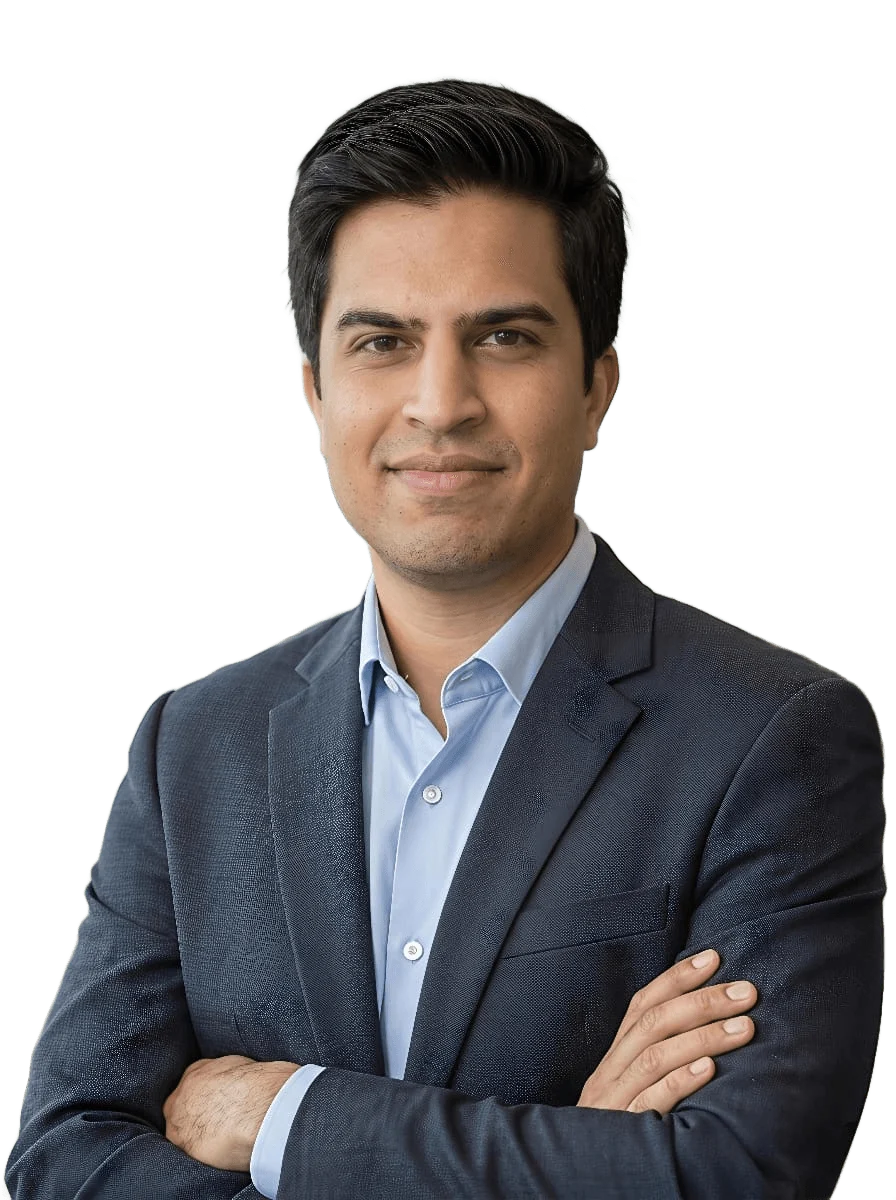
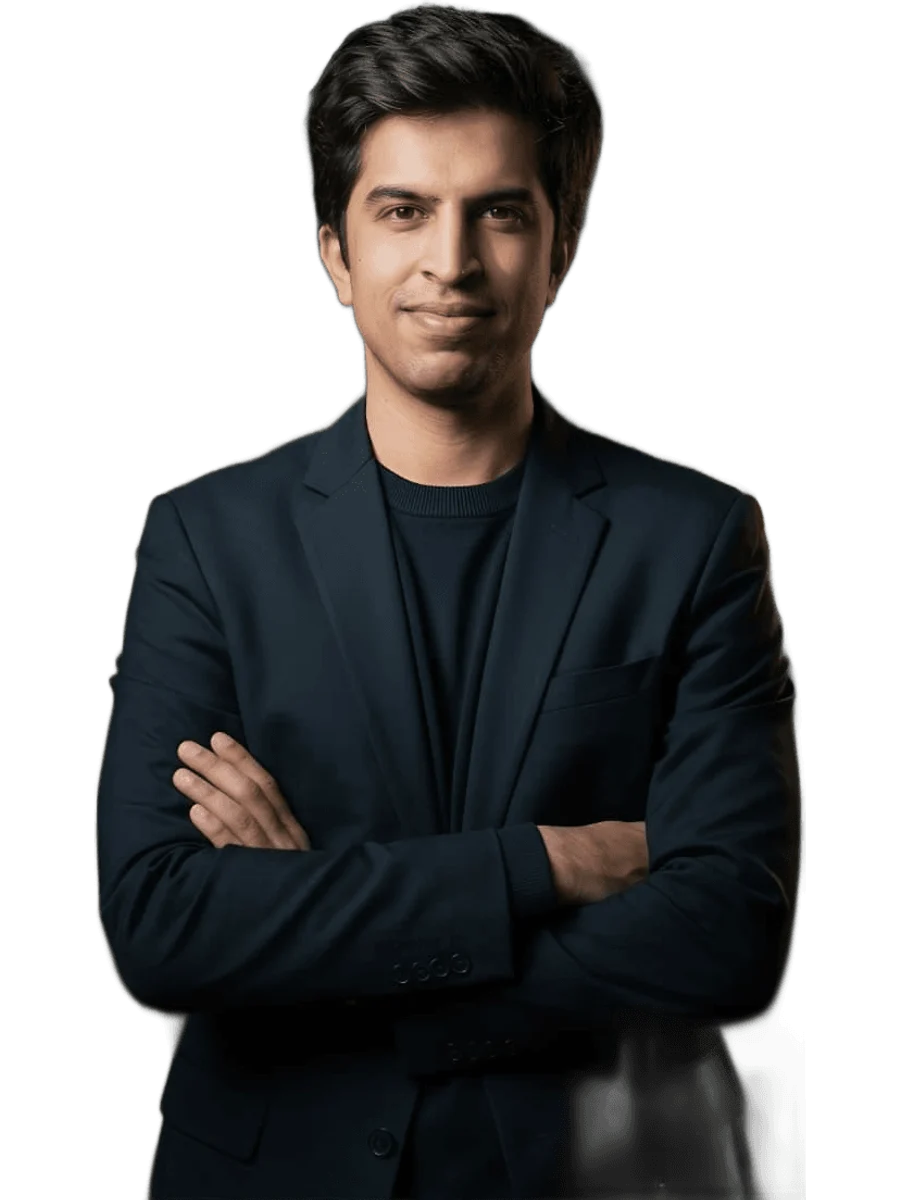
Use the new portrait and switch headings to Syne
Replace the hero cut-out and fallback portrait with the new photo.
Set the name and headings in Syne with Inter for body text, animate
the hero name letter by letter, and resize the hero, stats, project
figures and contact heading to fit the wider typeface.

diff --git a/src/index.css b/src/index.css
@@ -16,7 +16,7 @@
   --color-terracotta-ink: #94523c; /* AA-compliant terracotta for small text on ivory */
   --color-muted: #55574f;
 
-  --font-serif: 'Cormorant Garamond', 'Times New Roman', Georgia, serif;
+  --font-display: 'Syne', 'Inter', ui-sans-serif, system-ui, sans-serif;
   --font-sans: 'Inter', ui-sans-serif, system-ui, -apple-system, 'Segoe UI', sans-serif;
 
   --ease-editorial: cubic-bezier(0.22, 1, 0.36, 1);
@@ -37,7 +37,8 @@
     color: var(--color-charcoal);
     font-family: var(--font-sans);
     font-size: 1rem;
-    line-height: 1.65;
+    font-weight: 400;
+    line-height: 1.7;
     -webkit-font-smoothing: antialiased;
     -moz-osx-font-smoothing: grayscale;
     text-rendering: optimizeLegibility;
@@ -70,11 +71,15 @@
     line-height: 1.4;
   }
   .display {
-    font-family: var(--font-serif);
-    font-weight: 500;
-    letter-spacing: -0.02em;
-    line-height: 0.95;
-    font-variant-numeric: lining-nums;
+    font-family: var(--font-display);
+    font-weight: 600;
+    letter-spacing: -0.035em;
+    line-height: 1;
+  }
+  /* Syne has no italic: accents are carried by colour instead */
+  .display em,
+  .display i {
+    font-style: normal;
   }
   .rule {
     height: 1px;
@@ -116,22 +121,21 @@
   --u: min(1vw, 15.2px);
 }
 .hero-name {
-  font-family: var(--font-serif);
-  font-weight: 700;
-  font-size: calc(var(--u) * 22);
-  line-height: 0.86;
-  letter-spacing: -0.025em;
-  padding-top: 0.05em;
-  font-variant-numeric: lining-nums;
+  font-family: var(--font-display);
+  font-weight: 800;
+  font-size: calc(var(--u) * 15);
+  line-height: 0.82;
+  letter-spacing: -0.04em;
+  padding-top: 0.06em;
   color: var(--color-ivory);
 }
 .hero-photo {
   width: calc(var(--u) * 72);
   height: calc(var(--u) * 96);
-  margin-top: calc(var(--u) * -9);
+  margin-top: calc(var(--u) * -6.5);
 }
 .hero-front {
-  margin-top: calc(var(--u) * -24);
+  margin-top: calc(var(--u) * -26);
 }
 @media (min-width: 768px) {
   .hero-scale {
@@ -139,15 +143,15 @@
     --u: min(1vw, 1.4vh, 15.2px);
   }
   .hero-name {
-    font-size: calc(var(--u) * 19);
+    font-size: calc(var(--u) * 14.5);
   }
   .hero-photo {
-    width: calc(var(--u) * 39);
-    height: calc(var(--u) * 52);
-    margin-top: calc(var(--u) * -8.5);
+    width: calc(var(--u) * 42);
+    height: calc(var(--u) * 56);
+    margin-top: calc(var(--u) * -6.5);
   }
   .hero-front {
-    margin-top: calc(var(--u) * -19.5);
+    margin-top: calc(var(--u) * -22);
   }
 }
 

diff --git a/src/components/Hero.jsx b/src/components/Hero.jsx
@@ -6,17 +6,35 @@ import Button from './Button.jsx'
 
 const ease = [0.22, 1, 0.36, 1]
 
-// One line of the oversized name, rising out of a mask from below.
+// One line of the oversized name: each letter rises out of a mask from below, staggered,
+// then lifts and warms to terracotta on hover.
 function NameLine({ children, delay }) {
   return (
     <div className="overflow-hidden">
       <motion.div
-        className="hero-name text-center"
-        initial={{ y: '100%' }}
-        animate={{ y: '0%' }}
-        transition={{ duration: 1.3, ease, delay }}
+        className="hero-name flex justify-center"
+        initial="hidden"
+        animate="show"
+        variants={{ show: { transition: { staggerChildren: 0.07, delayChildren: delay } } }}
       >
-        {children}
+        {[...children].map((ch, i) => (
+          <motion.span
+            key={i}
+            className="inline-block"
+            variants={{
+              hidden: { y: '110%', rotate: 8, skewX: -6 },
+              show: { y: '0%', rotate: 0, skewX: 0, transition: { duration: 1.1, ease } },
+            }}
+          >
+            <motion.span
+              className="inline-block"
+              whileHover={{ y: '-8%', color: '#b86f52' }}
+              transition={{ type: 'spring', stiffness: 300, damping: 18 }}
+            >
+              {ch}
+            </motion.span>
+          </motion.span>
+        ))}
       </motion.div>
     </div>
   )
@@ -58,14 +76,14 @@ export default function Hero() {
 
         <motion.div
           className="hero-photo relative z-10 mx-auto"
-          initial={{ opacity: 0, y: 60 }}
-          animate={{ opacity: 1, y: 0 }}
-          transition={{ duration: 1.5, ease, delay: 0.45 }}
+          initial={{ opacity: 0, y: 40, scale: 1.06 }}
+          animate={{ opacity: 1, y: 0, scale: 1 }}
+          transition={{ duration: 1.4, ease, delay: 0.4 }}
         >
           <motion.img
             src={profile.portraitCutout}
             alt=""
-            width="896"
+            width="900"
             height="1200"
             fetchPriority="high"
             decoding="async"

diff --git a/src/components/Snapshot.jsx b/src/components/Snapshot.jsx
@@ -35,7 +35,7 @@ export default function Snapshot() {
                 <span className="label block text-charcoal">{s.label}</span>
                 <span className="mt-3 block max-w-[32ch] text-[0.9375rem] leading-relaxed text-muted">{s.context}</span>
               </dt>
-              <dd className="display order-1 text-[4.5rem] leading-none tracking-[-0.03em] tabular-nums text-charcoal sm:text-[5rem] xl:text-[6rem]">
+              <dd className="display order-1 text-[3.25rem] leading-none tracking-[-0.04em] tabular-nums text-charcoal sm:text-[3.75rem] xl:text-[4.5rem]">
                 <CountUp value={s.value} prefix={s.prefix} suffix={s.suffix} />
               </dd>
             </Reveal>

diff --git a/src/components/Work.jsx b/src/components/Work.jsx
@@ -38,7 +38,7 @@ function Project({ p, i }) {
           {p.title}
         </RevealText>
         <div className="mt-10 lg:mt-14">
-          <p className="display text-[5rem] leading-none tracking-[-0.03em] text-terracotta transition-transform duration-700 ease-[var(--ease-editorial)] group-hover:translate-x-2 md:text-[6.5rem]">
+          <p className="display text-[3.75rem] leading-none tracking-[-0.04em] text-terracotta transition-transform duration-700 ease-[var(--ease-editorial)] group-hover:translate-x-2 md:text-[4.75rem]">
             {p.figure}
           </p>
           <p className="label mt-3 text-ivory/70">{p.figureLabel}</p>

diff --git a/src/components/Approach.jsx b/src/components/Approach.jsx
@@ -26,7 +26,7 @@ export default function Approach() {
               key={p.title}
               className="grid grid-cols-12 gap-x-6 gap-y-4 border-t border-charcoal/25 py-10 md:py-14"
             >
-              <span className="display col-span-12 text-6xl italic leading-none text-terracotta md:col-span-2 md:text-7xl">
+              <span className="display col-span-12 text-6xl leading-none text-terracotta md:col-span-2 md:text-7xl">
                 {numerals[i]}
               </span>
               <RevealText as="h3" stagger={0.035} className="display col-span-12 text-3xl leading-[1.08] md:col-span-6 md:text-[2.6rem]">

diff --git a/src/components/About.jsx b/src/components/About.jsx
@@ -17,7 +17,7 @@ export default function About() {
           </RevealText>
 
           <div className="col-span-12 lg:col-span-6 lg:col-start-7">
-            <RevealText as="p" stagger={0.012} className="display text-[1.65rem] font-normal leading-[1.3] tracking-[-0.01em] text-charcoal md:text-[2rem]">
+            <RevealText as="p" stagger={0.012} className="display text-[1.4rem] font-medium leading-[1.35] tracking-[-0.02em] text-charcoal md:text-[1.75rem]">
               {about.lead}
             </RevealText>
             <div className="mt-8 grid gap-5 text-muted md:grid-cols-2 md:gap-8">

diff --git a/index.html b/index.html
@@ -31,7 +31,7 @@
     <link rel="preconnect" href="https://fonts.googleapis.com" />
     <link rel="preconnect" href="https://fonts.gstatic.com" crossorigin />
     <link
-      href="https://fonts.googleapis.com/css2?family=Cormorant+Garamond:ital,wght@0,400;0,500;0,600;0,700;1,400;1,500&family=Inter:wght@400;500;600&display=swap"
+      href="https://fonts.googleapis.com/css2?family=Syne:wght@500;600;700;800&family=Inter:wght@300;400;500;600&display=swap"
       rel="stylesheet"
     />
     <link rel="preload" as="image" href="./img/faraz-ahmad-cutout.webp" fetchpriority="high" />

diff --git a/src/components/Nav.jsx b/src/components/Nav.jsx
@@ -126,7 +126,7 @@ export default function Nav() {
                     animate={{ y: '0%' }}
                     transition={{ duration: 0.7, delay: 0.15 + i * 0.06, ease }}
                   >
-                    <span className={`display text-5xl ${active === item.id ? 'italic text-terracotta-ink' : ''}`}>
+                    <span className={`display text-5xl ${active === item.id ? 'text-terracotta-ink' : ''}`}>
                       {item.label}
                     </span>
                     <span className="label text-olive-ink">0{i + 1}</span>

diff --git a/src/components/Contact.jsx b/src/components/Contact.jsx
@@ -14,7 +14,7 @@ export default function Contact() {
         <RevealText
           as="h2"
           id="contact-title"
-          className="display mt-14 text-[3.4rem] leading-[0.92] tracking-[-0.03em] sm:text-7xl md:mt-20 md:text-[7.5rem] xl:text-[9.5rem]"
+          className="display mt-14 text-[2.6rem] leading-[0.95] tracking-[-0.04em] sm:text-6xl md:mt-20 md:text-[5.5rem] xl:text-[7rem]"
         >
           Let’s make better
           <br />
